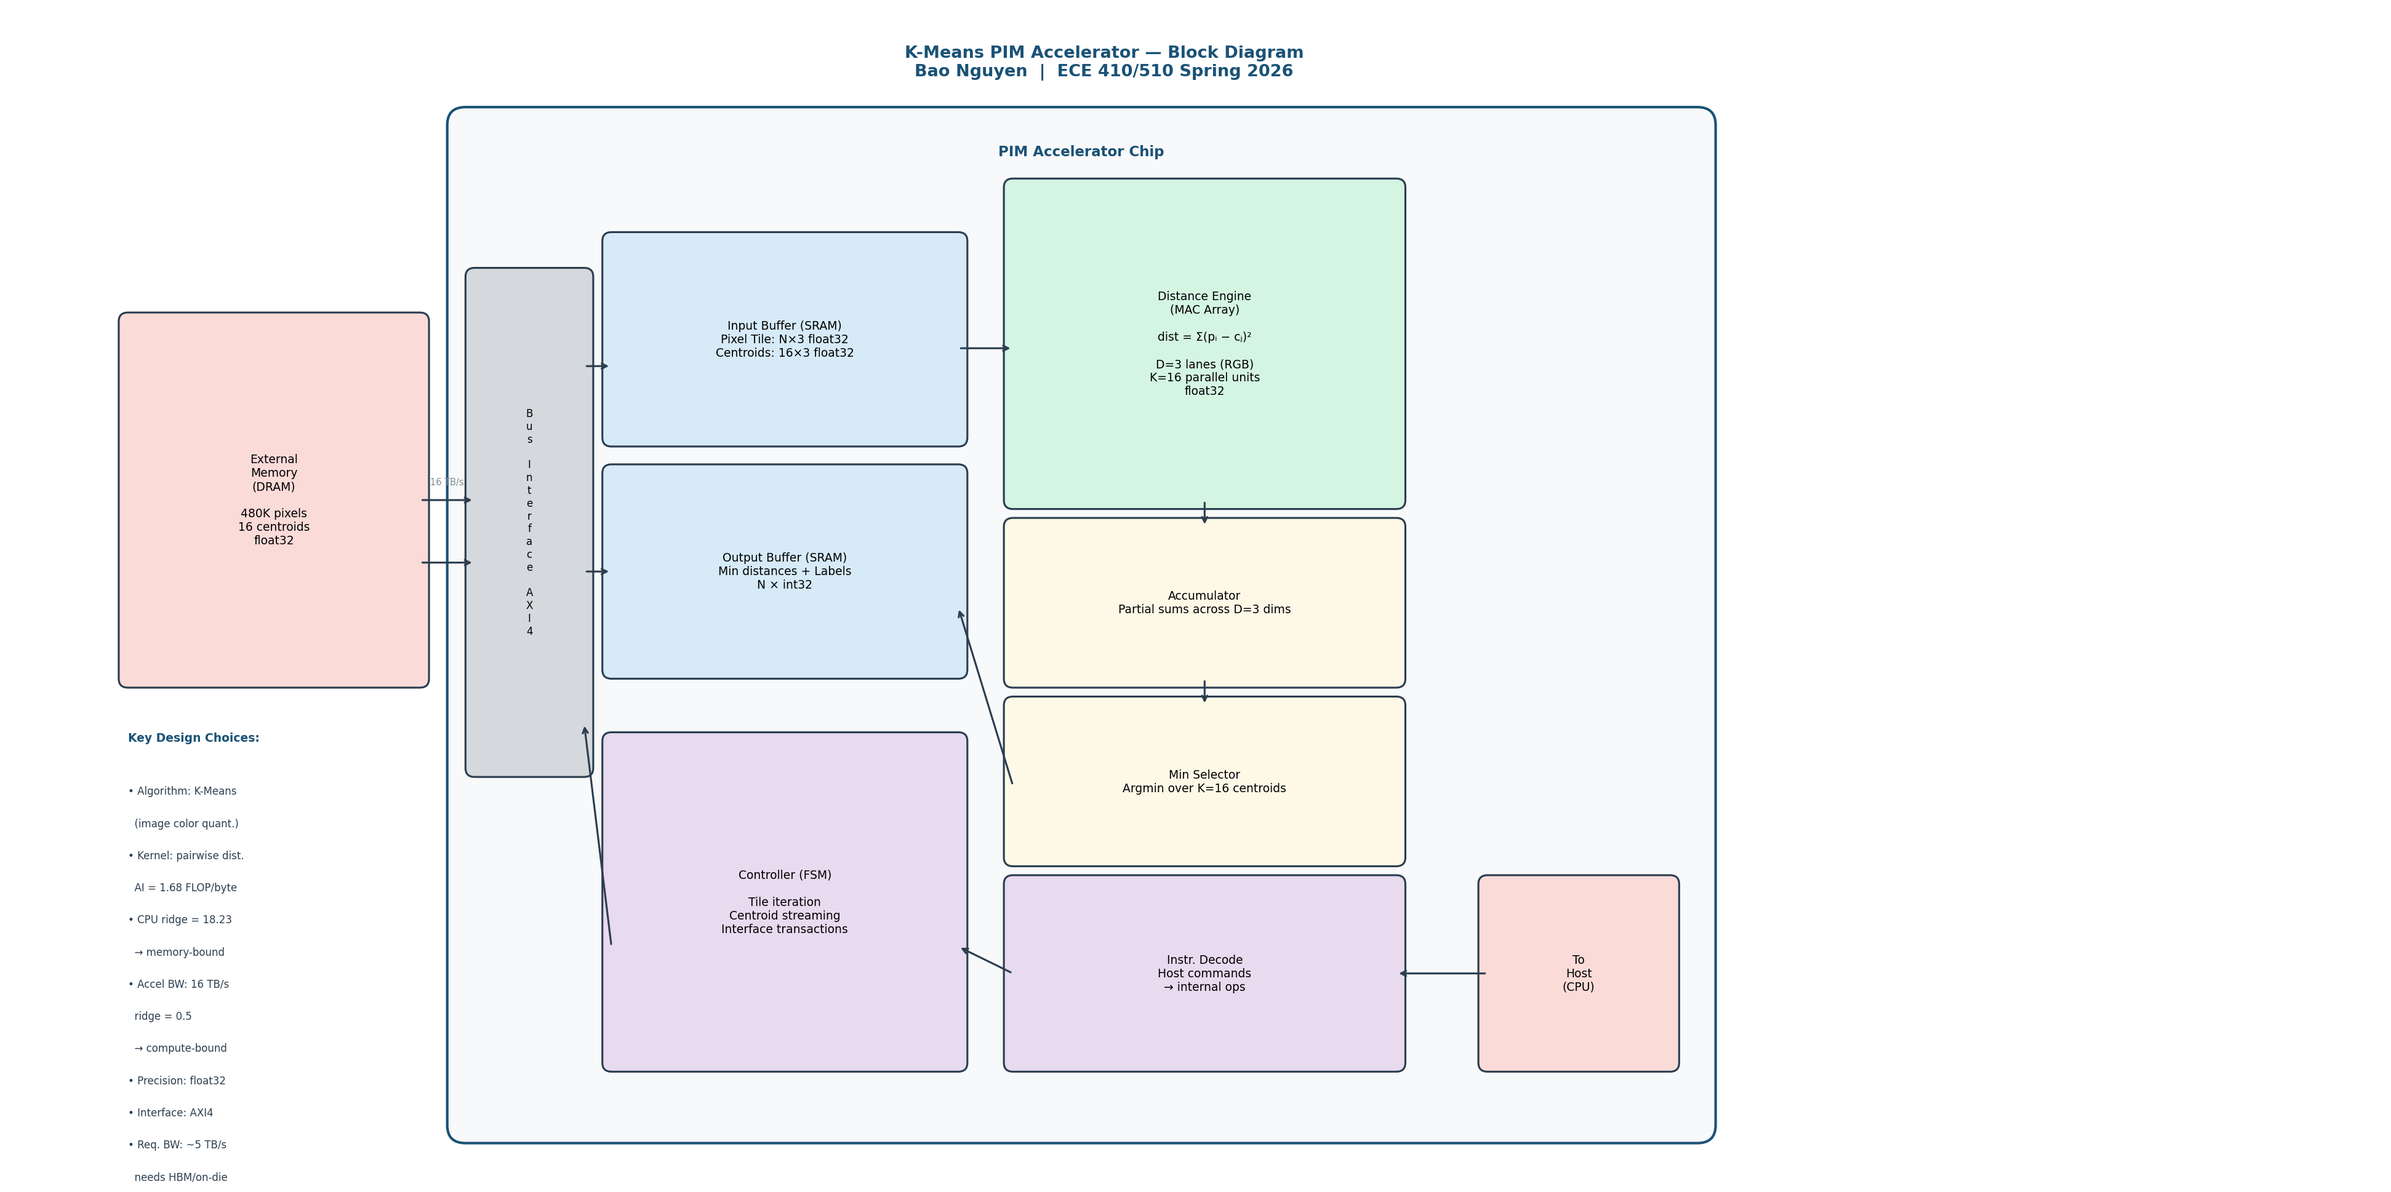
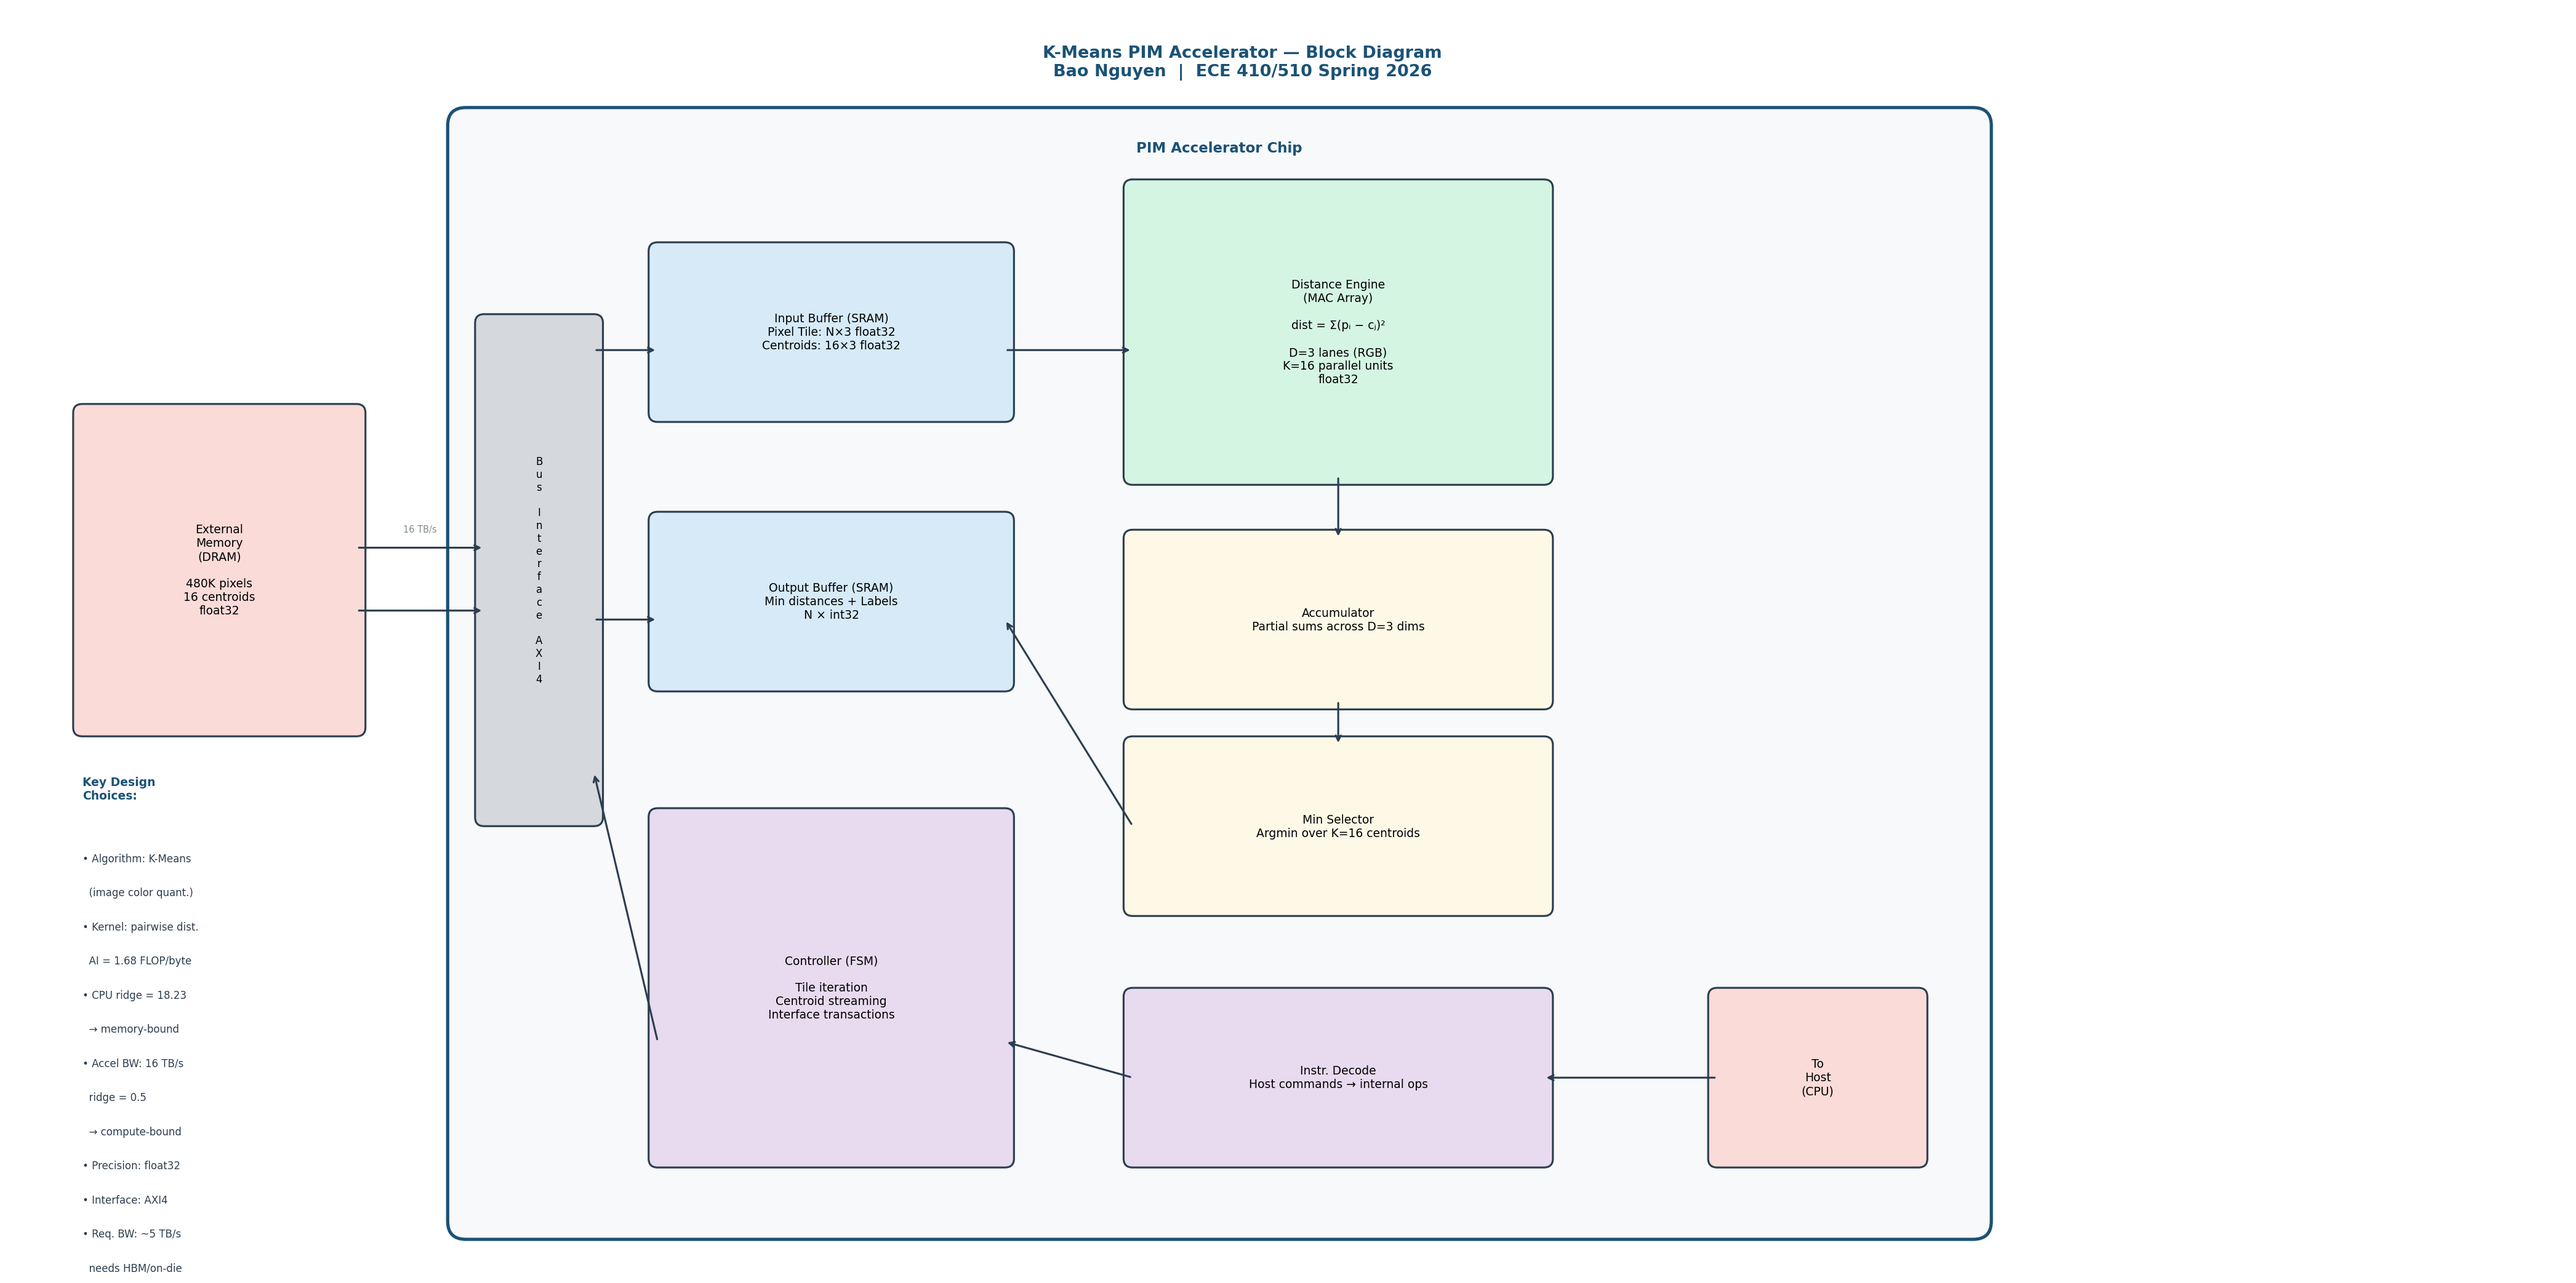
Update block diagram with better spacing and smaller boxes

diff --git a/course-materials/week03/gen_block_diagram.py b/course-materials/week03/gen_block_diagram.py
@@ -6,9 +6,9 @@ import matplotlib.pyplot as plt
 import matplotlib.patches as mpatches
 from matplotlib.patches import FancyBboxPatch, FancyArrowPatch
 
-fig, ax = plt.subplots(1, 1, figsize=(26, 13))
-ax.set_xlim(-1, 25)
-ax.set_ylim(0, 13)
+fig, ax = plt.subplots(1, 1, figsize=(28, 14))
+ax.set_xlim(-0.5, 27.5)
+ax.set_ylim(0, 14)
 ax.axis('off')
 fig.patch.set_facecolor('white')
 
@@ -32,95 +32,94 @@ def arrow(ax, x1, y1, x2, y2, label='', color='#2C3E50'):
                 color='#7F8C8D', zorder=5)
 
 # Title
-ax.text(11, 12.4, 'K-Means PIM Accelerator — Block Diagram\nBao Nguyen  |  ECE 410/510 Spring 2026',
+ax.text(13, 13.4, 'K-Means PIM Accelerator — Block Diagram\nBao Nguyen  |  ECE 410/510 Spring 2026',
         ha='center', va='center', fontsize=13, fontweight='bold', color='#1A5276')
 
-# ── Outer accelerator boundary ──
-outer = FancyBboxPatch((4.0, 0.5), 13.5, 11.2,
+# ── Outer accelerator boundary (excludes DRAM and To Host) ──
+outer = FancyBboxPatch((4.5, 0.5), 16.5, 12.2,
                         boxstyle="round,pad=0.2",
-                        linewidth=2, edgecolor='#1A5276',
+                        linewidth=2.5, edgecolor='#1A5276',
                         facecolor='#F8F9FA', zorder=1)
 ax.add_patch(outer)
-ax.text(10.75, 11.4, 'PIM Accelerator Chip', ha='center', va='center',
+ax.text(12.75, 12.45, 'PIM Accelerator Chip', ha='center', va='center',
         fontsize=11, fontweight='bold', color='#1A5276', zorder=3)
 
-# ── External Memory (DRAM) ──
-box(ax, 0.3, 5.5, 3.2, 4.0,
+# ── External Memory (DRAM) — outside chip ──
+box(ax, 0.3, 6.0, 3.0, 3.5,
     'External\nMemory\n(DRAM)\n\n480K pixels\n16 centroids\nfloat32',
     color='#FADBD8', fontsize=9)
 
-# ── Bus Interface ──
-box(ax, 4.1, 4.5, 1.2, 5.5,
+# ── Bus Interface — wide grey column ──
+box(ax, 4.7, 5.0, 1.2, 5.5,
     'B\nu\ns\n \nI\nn\nt\ne\nr\nf\na\nc\ne\n \nA\nX\nI\n4',
     color='#D5D8DC', fontsize=8)
 
 # ── Input Buffer ──
-box(ax, 5.6, 8.2, 3.8, 2.2,
+box(ax, 6.6, 9.5, 3.8, 1.8,
     'Input Buffer (SRAM)\nPixel Tile: N×3 float32\nCentroids: 16×3 float32',
     color='#D6EAF8', fontsize=9)
 
 # ── Output Buffer ──
-box(ax, 5.6, 5.6, 3.8, 2.2,
+box(ax, 6.6, 6.5, 3.8, 1.8,
     'Output Buffer (SRAM)\nMin distances + Labels\nN × int32',
     color='#D6EAF8', fontsize=9)
 
 # ── Distance Engine (MAC Array) ──
-box(ax, 10.0, 7.5, 4.2, 3.5,
+box(ax, 11.8, 8.8, 4.5, 3.2,
     'Distance Engine\n(MAC Array)\n\ndist = \u03a3(p\u1d62 \u2212 c\u2c7c)\u00b2\n\nD=3 lanes (RGB)\nK=16 parallel units\nfloat32',
     color='#D5F5E3', fontsize=9)
 
 # ── Accumulator ──
-box(ax, 10.0, 5.5, 4.2, 1.7,
+box(ax, 11.8, 6.3, 4.5, 1.8,
     'Accumulator\nPartial sums across D=3 dims',
     color='#FEF9E7', fontsize=9)
 
 # ── Min Selector ──
-box(ax, 10.0, 3.5, 4.2, 1.7,
+box(ax, 11.8, 4.0, 4.5, 1.8,
     'Min Selector\nArgmin over K=16 centroids',
     color='#FEF9E7', fontsize=9)
 
 # ── Controller / FSM ──
-box(ax, 5.6, 1.2, 3.8, 3.6,
+box(ax, 6.6, 1.2, 3.8, 3.8,
     'Controller (FSM)\n\nTile iteration\nCentroid streaming\nInterface transactions',
     color='#E8DAEF', fontsize=9)
 
 # ── Instr Decode ──
-box(ax, 10.0, 1.2, 4.2, 2.0,
-    'Instr. Decode\nHost commands\n\u2192 internal ops',
+box(ax, 11.8, 1.2, 4.5, 1.8,
+    'Instr. Decode\nHost commands → internal ops',
     color='#E8DAEF', fontsize=9)
 
-# ── To Host ──
-box(ax, 15.2, 1.2, 2.0, 2.0,
+# ── To Host — outside chip ──
+box(ax, 18.2, 1.2, 2.2, 1.8,
     'To\nHost\n(CPU)',
     color='#FADBD8', fontsize=9)
 
 # ── Arrows ──
-# DRAM → Bus
-arrow(ax, 3.5, 7.5, 4.1, 7.5, '16 TB/s')
-# Bus ← DRAM (bidirectional - write back)
-ax.annotate('', xy=(3.5, 6.8), xytext=(4.1, 6.8),
+# DRAM ↔ Bus
+arrow(ax, 3.3, 8.0, 4.7, 8.0, '16 TB/s')
+ax.annotate('', xy=(3.3, 7.3), xytext=(4.7, 7.3),
             arrowprops=dict(arrowstyle='<-', color='#2C3E50', lw=1.5), zorder=4)
 # Bus → Input Buffer
-arrow(ax, 5.3, 9.0, 5.6, 9.0)
+arrow(ax, 5.9, 10.2, 6.6, 10.2)
 # Bus → Output Buffer
-arrow(ax, 5.3, 6.7, 5.6, 6.7)
+arrow(ax, 5.9, 7.2, 6.6, 7.2)
 # Input Buffer → Distance Engine
-arrow(ax, 9.4, 9.2, 10.0, 9.2)
+arrow(ax, 10.4, 10.2, 11.8, 10.2)
 # Distance Engine → Accumulator
-arrow(ax, 12.1, 7.5, 12.1, 7.2)
+arrow(ax, 14.05, 8.8, 14.05, 8.1)
 # Accumulator → Min Selector
-arrow(ax, 12.1, 5.5, 12.1, 5.2)
+arrow(ax, 14.05, 6.3, 14.05, 5.8)
 # Min Selector → Output Buffer
-arrow(ax, 10.0, 4.3, 9.4, 6.3)
+arrow(ax, 11.8, 4.9, 10.4, 7.2)
 # Controller → Bus
-arrow(ax, 5.6, 2.5, 5.3, 5.0)
+arrow(ax, 6.6, 2.5, 5.9, 5.5)
 # Instr Decode → Controller
-arrow(ax, 10.0, 2.2, 9.4, 2.5)
+arrow(ax, 11.8, 2.1, 10.4, 2.5)
 # To Host → Instr Decode
-arrow(ax, 15.2, 2.2, 14.2, 2.2)
+arrow(ax, 18.2, 2.1, 16.3, 2.1)
 
 # ── Legend / Notes ──
-ax.text(0.3, 4.8, 'Key Design Choices:', fontsize=9, fontweight='bold', color='#1A5276')
+ax.text(0.3, 5.2, 'Key Design\nChoices:', fontsize=9, fontweight='bold', color='#1A5276')
 notes = [
     '• Algorithm: K-Means',
     '  (image color quant.)',
@@ -137,7 +136,7 @@ notes = [
     '  needs HBM/on-die',
 ]
 for i, note in enumerate(notes):
-    ax.text(0.3, 4.3 - i*0.36, note, fontsize=8, color='#2C3E50', va='top')
+    ax.text(0.3, 4.6 - i*0.38, note, fontsize=8, color='#2C3E50', va='top')
 
 plt.tight_layout()
 plt.savefig('kmeans_accelerator_block_diagram.png', dpi=150, bbox_inches='tight',
